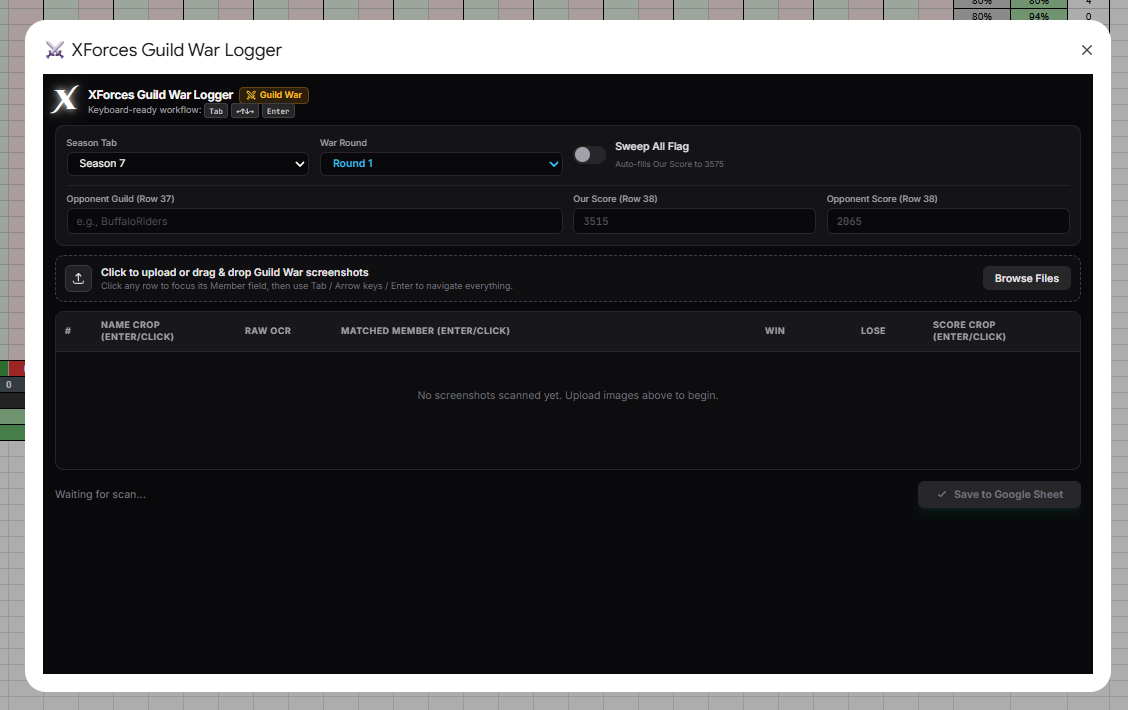
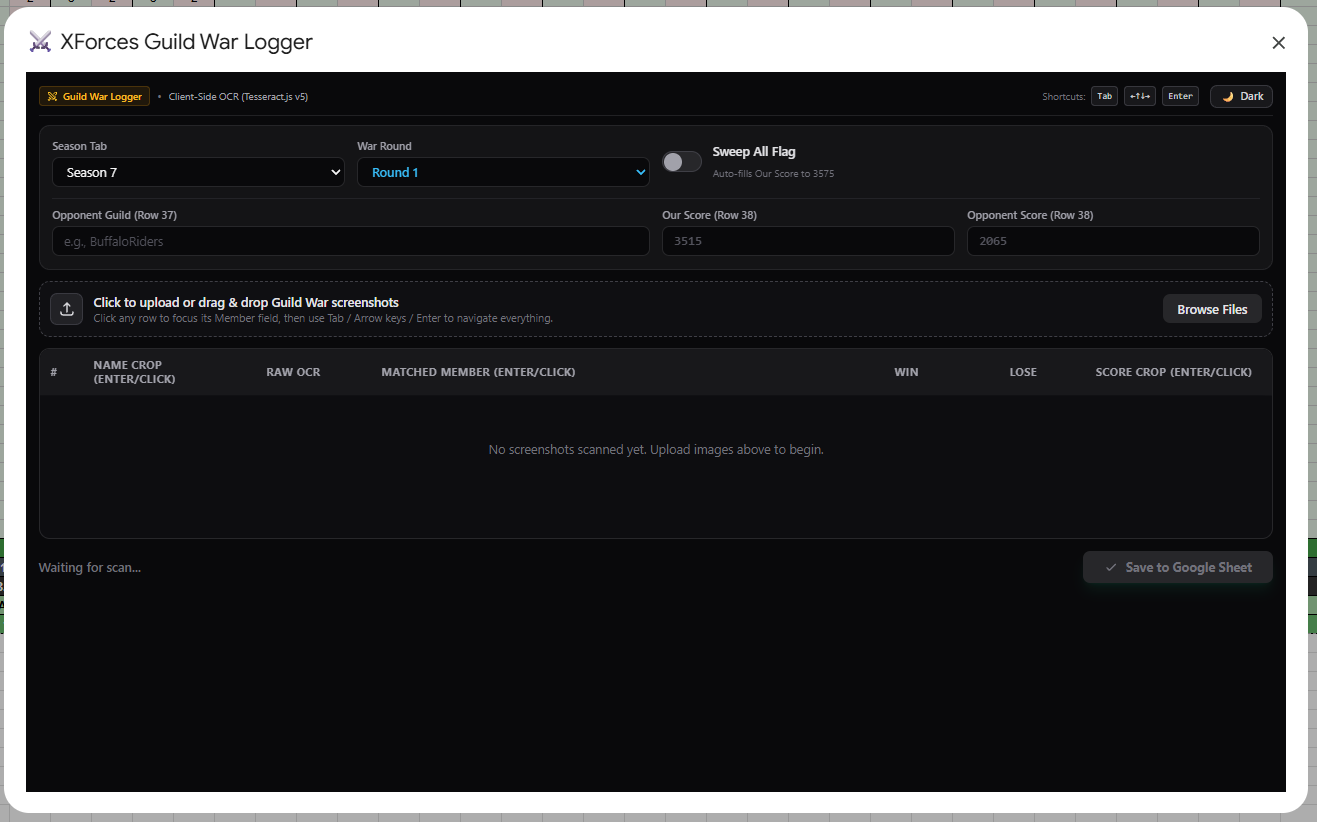
feat(theme): add dark and light theme toggle with updated documentation screenshots

diff --git a/AppScript/GuildWar.html b/AppScript/GuildWar.html
@@ -20,34 +20,181 @@
         }
       }
     }
+    // Apply theme immediately before render
+    (function() {
+      try {
+        const saved = localStorage.getItem('xforces_theme');
+        if (saved === 'light') {
+          document.documentElement.classList.remove('dark');
+        } else {
+          document.documentElement.classList.add('dark');
+        }
+      } catch (e) {}
+    })();
   </script>
   <style>
+    html, body {
+      margin: 0;
+      padding: 0;
+      width: 100%;
+      min-height: 100%;
+      box-sizing: border-box;
+      transition: background-color 0.15s ease, color 0.15s ease;
+    }
+    *, *:before, *:after {
+      box-sizing: inherit;
+    }
+    html.dark, html.dark body {
+      background-color: #09090b !important;
+      color: #f4f4f5 !important;
+    }
+
+    /* Scrollbar */
     ::-webkit-scrollbar { width: 8px; height: 8px; }
-    ::-webkit-scrollbar-track { background: #09090b; }
-    ::-webkit-scrollbar-thumb { background: #3f3f46; border-radius: 9999px; }
-    ::-webkit-scrollbar-thumb:hover { background: #52525b; }
+    html.dark ::-webkit-scrollbar-track { background: #09090b; }
+    html.dark ::-webkit-scrollbar-thumb { background: #3f3f46; border-radius: 9999px; }
+    html.dark ::-webkit-scrollbar-thumb:hover { background: #52525b; }
+
+    /* Light Theme (matches Google Sheets modal) */
+    html:not(.dark), html:not(.dark) body {
+      background-color: #ffffff !important;
+      color: #0f172a !important;
+    }
+    html:not(.dark) ::-webkit-scrollbar-track { background: #f8fafc; }
+    html:not(.dark) ::-webkit-scrollbar-thumb { background: #cbd5e1; border-radius: 9999px; }
+    html:not(.dark) ::-webkit-scrollbar-thumb:hover { background: #94a3b8; }
+
+    /* Surface & Background overrides in Light Mode */
+    html:not(.dark) .bg-zinc-950 { background-color: #ffffff !important; }
+    html:not(.dark) .bg-zinc-900\/70,
+    html:not(.dark) .bg-zinc-900\/40,
+    html:not(.dark) .bg-zinc-900\/30,
+    html:not(.dark) .bg-zinc-900\/95,
+    html:not(.dark) .bg-zinc-900 { background-color: #f8fafc !important; }
+    html:not(.dark) .bg-zinc-800,
+    html:not(.dark) .bg-zinc-800\/80,
+    html:not(.dark) .bg-zinc-800\/90 { background-color: #f1f5f9 !important; }
+
+    /* Border overrides in Light Mode */
+    html:not(.dark) .border-zinc-800,
+    html:not(.dark) .border-zinc-800\/90,
+    html:not(.dark) .border-zinc-800\/80,
+    html:not(.dark) .border-zinc-700,
+    html:not(.dark) .border-zinc-700\/80,
+    html:not(.dark) .border-zinc-700\/60 { border-color: #e2e8f0 !important; }
+    html:not(.dark) .divide-zinc-800\/60 > * + * { border-color: #f1f5f9 !important; }
+
+    /* Text overrides in Light Mode */
+    html:not(.dark) .text-zinc-100,
+    html:not(.dark) .text-zinc-200 { color: #0f172a !important; }
+    html:not(.dark) .text-zinc-300,
+    html:not(.dark) .text-zinc-400 { color: #334155 !important; }
+    html:not(.dark) .text-zinc-500 { color: #64748b !important; }
+    html:not(.dark) .text-zinc-600 { color: #94a3b8 !important; }
+
+    /* High-contrast status colors for Light Mode */
+    html:not(.dark) .text-amber-200,
+    html:not(.dark) .text-amber-300 { color: #b45309 !important; }
+    html:not(.dark) .text-emerald-300,
+    html:not(.dark) .text-emerald-400 { color: #047857 !important; }
+    html:not(.dark) .text-rose-300,
+    html:not(.dark) .text-rose-400 { color: #be123c !important; }
+    html:not(.dark) .text-sky-400 { color: #0369a1 !important; }
+
+    /* Table & Dropzone in Light Mode */
+    html:not(.dark) thead { background-color: #f1f5f9 !important; border-color: #e2e8f0 !important; }
+    html:not(.dark) thead th { color: #475569 !important; }
+    html:not(.dark) #dropZone { background-color: #f8fafc !important; border-color: #cbd5e1 !important; }
+    html:not(.dark) #dropZone:hover { background-color: #f1f5f9 !important; border-color: #f59e0b !important; }
+    html:not(.dark) tr:hover:not(.bg-purple-500\/20):not(.bg-rose-500\/10):not(.bg-amber-500\/10) { background-color: #f8fafc !important; }
+
+    /* Inputs in Light Mode */
+    html:not(.dark) input:not([type="checkbox"]),
+    html:not(.dark) select {
+      background-color: #ffffff !important;
+      color: #0f172a !important;
+      border-color: #cbd5e1 !important;
+    }
+    html:not(.dark) input::placeholder { color: #94a3b8 !important; }
+
+    /* Popover in Light Mode */
+    html:not(.dark) #memberPopover {
+      background-color: #ffffff !important;
+      border-color: #c084fc !important;
+      box-shadow: 0 20px 25px -5px rgba(0,0,0,0.1), 0 8px 10px -6px rgba(0,0,0,0.1) !important;
+    }
+    html:not(.dark) #memberPopover .bg-zinc-950\/60 { background-color: #f8fafc !important; border-color: #e2e8f0 !important; }
+    html:not(.dark) #memberPopover button { color: #1e293b !important; }
+    html:not(.dark) #memberPopover button:hover { background-color: #f1f5f9 !important; }
+
+    /* Sweep All Toggle Switch in Light Mode */
+    #sweepToggleTrack {
+      transition: background-color 0.2s, border-color 0.2s;
+    }
+    html:not(.dark) #sweepToggleTrack {
+      background-color: #cbd5e1 !important; /* slate-300: clearly visible track */
+      border: 1px solid #94a3b8 !important; /* slate-400 border */
+    }
+    html:not(.dark) #sweepToggleTrack:after {
+      background-color: #ffffff !important; /* crisp white knob */
+      box-shadow: 0 1px 3px rgba(0, 0, 0, 0.25) !important;
+    }
+    html:not(.dark) input#sweepAll:checked + #sweepToggleTrack {
+      background-color: #f59e0b !important; /* vibrant amber-500 */
+      border-color: #d97706 !important; /* amber-600 */
+    }
+    html:not(.dark) input#sweepAll:checked + #sweepToggleTrack:after {
+      background-color: #ffffff !important;
+    }
+
+    /* Save Button in Light Mode */
+    html:not(.dark) #saveBtn:not(:disabled) {
+      color: #ffffff !important;
+      background-color: #059669 !important; /* emerald-600 */
+    }
+    html:not(.dark) #saveBtn:not(:disabled):hover {
+      background-color: #10b981 !important; /* emerald-500 */
+    }
+    html:not(.dark) #saveBtn:not(:disabled) svg {
+      stroke: #ffffff !important;
+    }
+    html:not(.dark) #saveBtn:disabled {
+      background-color: #e2e8f0 !important;
+      color: #94a3b8 !important;
+    }
+    html:not(.dark) #saveBtn:disabled svg {
+      stroke: #94a3b8 !important;
+    }
   </style>
 </head>
-<body class="bg-zinc-950 text-zinc-100 p-4 font-sans text-base antialiased selection:bg-amber-500/30 selection:text-amber-200 max-w-[1440px] mx-auto">
+<body class="bg-zinc-950 text-zinc-100 p-3.5 font-sans text-base antialiased selection:bg-amber-500/30 selection:text-amber-200 w-full">
 
-  <!-- Top Header -->
-  <div class="flex items-center justify-between mb-3">
-    <div class="flex items-center gap-3">
-      <span class="text-4xl font-black text-white select-none leading-none pr-1" style="font-family: 'Cinzel Decorative', serif; text-shadow: 0 0 10px rgba(255,255,255,0.9), 0 0 24px rgba(255,255,255,0.45);">
-        X
+  <!-- Compact Sub-header: Status, Keyboard Workflow & Theme Toggle -->
+  <div class="flex items-center justify-between pb-2 mb-2.5 border-b border-zinc-800/80 text-xs">
+    <div class="flex items-center gap-2">
+      <span class="inline-flex items-center gap-1.5 px-2 py-0.5 rounded text-[11px] font-semibold bg-amber-500/10 text-amber-400 border border-amber-500/20">
+        <svg class="w-3 h-3" viewBox="0 0 24 24" fill="none" stroke="currentColor" stroke-width="2" stroke-linecap="round" stroke-linejoin="round">
+          <polyline points="14.5 17.5 3 6 3 3 6 3 17.5 14.5"/><line x1="13" y1="19" x2="19" y2="13"/><line x1="16" y1="16" x2="20" y2="20"/><line x1="19" y1="21" x2="21" y2="19"/><polyline points="14.5 6.5 18 3 21 3 21 6 17.5 9.5"/><line x1="5" y1="14" x2="9" y2="18"/><line x1="7" y1="17" x2="4" y2="20"/><line x1="3" y1="19" x2="5" y2="21"/>
+        </svg>
+        Guild War Logger
       </span>
-      <div>
-        <div class="flex items-center gap-2">
-          <h1 class="text-base font-bold tracking-tight text-zinc-100">XForces Guild War Logger</h1>
-          <span class="inline-flex items-center gap-1 px-2 py-0.5 rounded-md text-xs font-semibold bg-amber-500/15 text-amber-400 border border-amber-500/30">
-            <svg class="w-3.5 h-3.5" viewBox="0 0 24 24" fill="none" stroke="currentColor" stroke-width="2" stroke-linecap="round" stroke-linejoin="round">
-              <polyline points="14.5 17.5 3 6 3 3 6 3 17.5 14.5"/><line x1="13" y1="19" x2="19" y2="13"/><line x1="16" y1="16" x2="20" y2="20"/><line x1="19" y1="21" x2="21" y2="19"/><polyline points="14.5 6.5 18 3 21 3 21 6 17.5 9.5"/><line x1="5" y1="14" x2="9" y2="18"/><line x1="7" y1="17" x2="4" y2="20"/><line x1="3" y1="19" x2="5" y2="21"/>
-            </svg>
-            Guild War
-          </span>
-        </div>
-        <p class="text-xs text-zinc-400">Keyboard-ready workflow: <kbd class="px-1.5 py-0.5 bg-zinc-800 border border-zinc-700 rounded text-[10px] text-zinc-300">Tab</kbd> <kbd class="px-1.5 py-0.5 bg-zinc-800 border border-zinc-700 rounded text-[10px] text-zinc-300">←↑↓→</kbd> <kbd class="px-1.5 py-0.5 bg-zinc-800 border border-zinc-700 rounded text-[10px] text-zinc-300">Enter</kbd></p>
+      <span class="text-zinc-500">•</span>
+      <span class="text-zinc-400 text-[11px]">Client-Side OCR (Tesseract.js v5)</span>
+    </div>
+    <div class="flex items-center gap-3">
+      <div class="flex items-center gap-1.5 text-zinc-400 text-[11px]">
+        <span class="text-zinc-500">Shortcuts:</span>
+        <kbd class="px-1.5 py-0.5 bg-zinc-900 border border-zinc-700/80 rounded text-[10px] text-zinc-300 font-mono">Tab</kbd>
+        <kbd class="px-1.5 py-0.5 bg-zinc-900 border border-zinc-700/80 rounded text-[10px] text-zinc-300 font-mono">←↑↓→</kbd>
+        <kbd class="px-1.5 py-0.5 bg-zinc-900 border border-zinc-700/80 rounded text-[10px] text-zinc-300 font-mono">Enter</kbd>
       </div>
+
+      <!-- Theme Toggle Button -->
+      <button type="button" id="themeToggleBtn" onclick="toggleTheme()" title="Switch Light / Dark Theme"
+        class="inline-flex items-center gap-1.5 px-2.5 py-1 rounded-lg border border-zinc-700/80 hover:border-amber-400/80 bg-zinc-900 hover:bg-zinc-800 text-zinc-300 hover:text-amber-300 text-xs font-medium transition-all shadow-sm cursor-pointer select-none">
+        <span id="themeIcon">🌙</span>
+        <span id="themeLabel">Dark</span>
+      </button>
     </div>
   </div>
 
@@ -66,7 +213,7 @@
         <label class="flex items-center gap-3 cursor-pointer select-none group">
           <div class="relative flex items-center">
             <input type="checkbox" id="sweepAll" onchange="onSweepToggle(this.checked)" class="peer sr-only">
-            <div class="w-11 h-6 bg-zinc-800 peer-focus:outline-none rounded-full peer peer-checked:after:translate-x-full peer-checked:after:border-white after:content-[''] after:absolute after:top-[2px] after:left-[2px] after:bg-zinc-400 after:rounded-full after:h-5 after:w-5 after:transition-all peer-checked:bg-amber-500 peer-checked:after:bg-zinc-950"></div>
+            <div id="sweepToggleTrack" class="w-11 h-6 bg-zinc-800 border border-zinc-700 peer-focus:outline-none rounded-full peer peer-checked:after:translate-x-full peer-checked:after:border-white after:content-[''] after:absolute after:top-[2px] after:left-[2px] after:bg-zinc-400 after:rounded-full after:h-5 after:w-5 after:transition-all peer-checked:bg-amber-500 peer-checked:after:bg-zinc-950"></div>
           </div>
           <div>
             <span class="text-sm font-medium text-zinc-200 group-hover:text-white transition-colors">Sweep All Flag</span>
@@ -159,6 +306,39 @@
   </div>
 
   <script>
+    function initTheme() {
+      let isDark = true;
+      try {
+        const saved = localStorage.getItem('xforces_theme');
+        if (saved) isDark = saved === 'dark';
+      } catch (e) {}
+      applyTheme(isDark);
+    }
+
+    function toggleTheme() {
+      const isDark = !document.documentElement.classList.contains('dark');
+      applyTheme(isDark);
+      try {
+        localStorage.setItem('xforces_theme', isDark ? 'dark' : 'light');
+      } catch (e) {}
+    }
+
+    function applyTheme(isDark) {
+      const icon = document.getElementById('themeIcon');
+      const label = document.getElementById('themeLabel');
+      if (isDark) {
+        document.documentElement.classList.add('dark');
+        if (icon) icon.textContent = '🌙';
+        if (label) label.textContent = 'Dark';
+      } else {
+        document.documentElement.classList.remove('dark');
+        if (icon) icon.textContent = '☀';
+        if (label) label.textContent = 'Light';
+      }
+    }
+
+    initTheme();
+
     let roster = [];
     let searchableRoster = [];
     let extractedRows = [];
